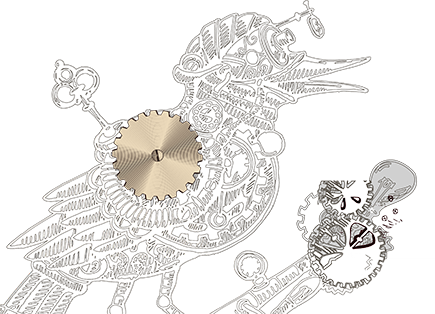
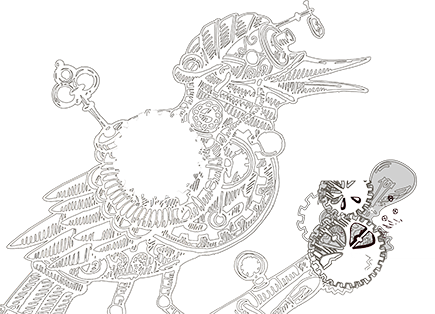
Add files via upload

Changed region(s): [[0.2391, 0.3439, 0.4782, 0.6592]]

diff --git a/project-1/index.html b/project-1/index.html
@@ -24,41 +24,55 @@
     			<div class="row header-background__top">
     				<div class="col-md-4 header-background__top-left"><img src="img/left-top.png" alt=""></div>
     				<div class="col-md-4 header-background__top-center"><img src="img/top-center.png" alt=""></div>
-    				<div class="col-md-4 header-background__top-right"><img src="img/top-right.png" alt=""></div>
+    				<div class="col-md-4 header-background__top-right">
+                        <img class="top-right" src="img/top-right.png" alt="">
+                        <img class="top-right-gear" src="img/top-right-gear.png" alt="">
+                    </div>
     			</div>
     			<div class="row header-background__bottom">
     				<div class="col-md-2 header-background__bottom-left"><img src="img/dor.png" alt=""></div>
-    				<div class="col-md-6 header-background__bottom-center"><img src="img/owl.png" alt=""></div>
-    				<div class="col-md-4 header-background__bottom-right"><img src="img/bottom-right.png" alt=""></div>
+    				<div class="col-md-6 header-background__bottom-center">
+                        <img class="owl" src="img/owl.png" alt="">
+                        <img class="owl-gear" src="img/owl-gear.png" alt="">
+                    </div>
+    				<div class="col-md-4 header-background__bottom-right">
+                        <img class="bottom-right" src="img/bottom-right.png" alt="">
+                        <img class="bottom-right-arrow" src="img/bottom-right-arrow.png" alt="">
+                    </div>
     			</div>
     		</div>
     		<div class="header-ui text-center">
     			<nav class="header-ui-nav">
     				<ul>
-    					<li class="bottom">
+    					<li style="position: relative;" class="bottom">
     						<span></span>
     						<img src="img/light.png" alt="">
-    						<a href="#">Галерея</a>
+                            <img style="opacity: 0; transition: all .3s; position: absolute; top: -10%; left: 26%; width: 90px;" class="light-lights-1" src="img/light-lights.png" alt="">
+    						<a class="menu-item-1" href="#">Галерея</a>
     					</li>
-    					<li class="center">
+    					<li style="position: relative;" class="center">
     						<span></span>
     						<img src="img/light.png" alt="">
-    						<a href="#">Витрина</a>
+                            <img style="opacity: 0; transition: all .3s; position: absolute; top: -10%; left: 26%; width: 90px;" class="light-lights-2" src="img/light-lights.png" alt="">
+    						<a class="menu-item-2" href="#">Витрина</a>
     					</li>
-    					<li class="top">
+    					<li style="position: relative;" class="top">
     						<span></span>
     						<img src="img/light.png" alt="">
-    						<a href="#">Меню</a>
+                            <img style="opacity: 0; transition: all .3s; position: absolute; top: -10%; left: 26%; width: 90px;" class="light-lights-3" src="img/light-lights.png" alt="">
+    						<a class="menu-item-3" href="#">Меню</a>
     					</li>
-    					<li class="center">
+    					<li style="position: relative;" class="center">
     						<span></span>
     						<img src="img/light.png" alt="">
-    						<a href="#">Контакты</a>
+                            <img style="opacity: 0; transition: all .3s; position: absolute; top: -10%; left: 28%; width: 90px;" class="light-lights-4" src="img/light-lights.png" alt="">
+    						<a class="menu-item-4" href="#">Контакты</a>
     					</li>
-    					<li class="bottom">
+    					<li style="position: relative;" class="bottom">
     						<span></span>
     						<img src="img/light.png" alt="">
-    						<a href="#">Франшиза</a>
+                            <img style="opacity: 0; transition: all .3s; position: absolute; top: -10%; left: 29%; width: 90px;" class="light-lights-5" src="img/light-lights.png" alt="">
+    						<a class="menu-item-5" href="#">Франшиза</a>
     					</li>
     				</ul>
     			</nav>
@@ -73,5 +87,41 @@
     <script src="https://ajax.googleapis.com/ajax/libs/jquery/1.12.4/jquery.min.js"></script>
     <!-- Include all compiled plugins (below), or include individual files as needed -->
     <script src="js/bootstrap.min.js"></script>
+    <script>
+        $('.menu-item-1').mouseenter(function(){
+            $('.light-lights-1').css({'opacity' : '.5'});
+        });
+        $('.menu-item-1').mouseleave(function(){
+            $('.light-lights-1').css({'opacity' : '0'});
+        });
+
+        $('.menu-item-2').mouseenter(function(){
+            $('.light-lights-2').css({'opacity' : '.5'});
+        });
+        $('.menu-item-2').mouseleave(function(){
+            $('.light-lights-2').css({'opacity' : '0'});
+        });
+
+        $('.menu-item-3').mouseenter(function(){
+            $('.light-lights-3').css({'opacity' : '.5'});
+        });
+        $('.menu-item-3').mouseleave(function(){
+            $('.light-lights-3').css({'opacity' : '0'});
+        });
+
+        $('.menu-item-4').mouseenter(function(){
+            $('.light-lights-4').css({'opacity' : '.5'});
+        });
+        $('.menu-item-4').mouseleave(function(){
+            $('.light-lights-4').css({'opacity' : '0'});
+        });
+
+        $('.menu-item-5').mouseenter(function(){
+            $('.light-lights-5').css({'opacity' : '.5'});
+        });
+        $('.menu-item-5').mouseleave(function(){
+            $('.light-lights-5').css({'opacity' : '0'});
+        });
+    </script>
   </body>
 </html>

diff --git a/project-1/css/style.css b/project-1/css/style.css
@@ -1,1 +1,1 @@
-img{display:inline-block}.header{width:100%;position:relative}.header-background{width:1140px;margin-top:20px;padding-top:5px;background-color:#eee;position:absolute}.header-background__top-left img{width:110%}.header-background__top-center img{display:block;margin:0 auto;width:25%}.header-background__top-right img{width:90%}.header-background__bottom{padding-top:300px}.header-background__bottom-left img{margin-top:50px;width:105%}.header-background__bottom-center img{margin-left:50px;margin-top:120px;width:60%}.header-background__bottom-right img{display:block;margin:0 auto;margin-top:100px;width:80%}.header-ui{position:relative}.header-ui-nav{overflow-x:hidden}.header-ui-nav ul{width:100%;padding:0}.header-ui-nav ul li{padding:0 40px;display:inline-block;margin:0 auto}.header-ui-nav ul li.bottom{margin-top:200px}.header-ui-nav ul li.center{-webkit-transform:translateY(-25px);transform:translateY(-25px)}.header-ui-nav ul li.top{-webkit-transform:translateY(-33px);transform:translateY(-33px)}.header-ui-nav ul li a{padding:10px 20px;border-radius:30px;display:block;margin-top:15px;background-color:#888;text-decoration:none;color:#fff;font-weight:800;text-transform:uppercase;-webkit-transition:all .3s;transition:all .3s}.header-ui-nav ul li a:hover{background-color:#ebd9ba;color:#555}.header-ui-nav ul li img{display:block;margin:0 auto;width:30px}.header-logo{margin-top:50px}.header-logo img{width:60%}
+img{display:inline-block}.header{width:100%;position:relative}.header-background{width:1140px;margin-top:20px;padding-top:5px;background-color:#eee;position:absolute}.header-background__top-left img{width:110%}.header-background__top-center img{display:block;margin:0 auto;width:25%}.header-background__bottom{padding-top:300px}.header-background__bottom-left img{margin-top:50px;width:105%}.header-background__bottom-center{position:relative}.header-background__bottom-right{position:relative}.header-ui{position:relative}.header-ui-nav ul{width:100%;padding:0}.header-ui-nav ul li{padding:0 40px;display:inline-block;margin:0 auto}.header-ui-nav ul li span{position:absolute;display:block;margin:0 auto;width:2px;height:500px;background:#999;bottom:100%;right:49%}.header-ui-nav ul li.bottom{margin-top:200px}.header-ui-nav ul li.center{-webkit-transform:translateY(-25px);transform:translateY(-25px)}.header-ui-nav ul li.top{-webkit-transform:translateY(-33px);transform:translateY(-33px)}.header-ui-nav ul li a{padding:10px 20px;border-radius:30px;display:block;margin-top:15px;background-color:#888;text-decoration:none;color:#fff;font-weight:800;text-transform:uppercase;-webkit-transition:all .3s;transition:all .3s}.header-ui-nav ul li a:hover{background-color:#ebd9ba;color:#555}.header-ui-nav ul li a:hover .light-lights{opacity:.5}.header-ui-nav ul li img{display:block;margin:0 auto;width:30px}.header-logo{margin-top:50px}.header-logo img{width:60%}.top-right{width:90%}.top-right-gear{position:absolute;right:28%;top:40%;width:100px;-webkit-animation-name:rotate;animation-name:rotate;-webkit-animation-duration:4s;animation-duration:4s;-webkit-animation-timing-function:linear;animation-timing-function:linear;-webkit-animation-iteration-count:infinite;animation-iteration-count:infinite}.owl{margin-left:50px;margin-top:120px;width:60%}.owl-gear{position:absolute;width:17%;top:53%;left:25%;-webkit-animation-name:rotate;animation-name:rotate;-webkit-animation-duration:4s;animation-duration:4s;-webkit-animation-timing-function:linear;animation-timing-function:linear;-webkit-animation-iteration-count:infinite;animation-iteration-count:infinite}.bottom-right{display:block;margin:0 auto;margin-top:100px;width:80%}.bottom-right-arrow{position:absolute;width:35px;top:34%;right:44%;-webkit-animation-name:rotate-arrow;animation-name:rotate-arrow;-webkit-animation-duration:4s;animation-duration:4s;-webkit-animation-iteration-count:infinite;animation-iteration-count:infinite}@-webkit-keyframes rotate{from{-webkit-transform:rotate(0deg);transform:rotate(0deg)}50%{-webkit-transform:rotate(180deg);transform:rotate(180deg)}to{-webkit-transform:rotate(360deg);transform:rotate(360deg)}}@keyframes rotate{from{-webkit-transform:rotate(0deg);transform:rotate(0deg)}50%{-webkit-transform:rotate(180deg);transform:rotate(180deg)}to{-webkit-transform:rotate(360deg);transform:rotate(360deg)}}@-webkit-keyframes rotate-arrow{from{-webkit-transform:rotate(0deg);transform:rotate(0deg)}25%{-webkit-transform:rotate(120deg);transform:rotate(120deg)}60%{-webkit-transform:rotate(80deg);transform:rotate(80deg)}80%{-webkit-transform:rotate(150deg);transform:rotate(150deg)}to{-webkit-transform:rotate(0deg);transform:rotate(0deg)}}@keyframes rotate-arrow{from{-webkit-transform:rotate(0deg);transform:rotate(0deg)}25%{-webkit-transform:rotate(120deg);transform:rotate(120deg)}60%{-webkit-transform:rotate(80deg);transform:rotate(80deg)}80%{-webkit-transform:rotate(150deg);transform:rotate(150deg)}to{-webkit-transform:rotate(0deg);transform:rotate(0deg)}}

diff --git a/project-1/less/style.less b/project-1/less/style.less
@@ -25,7 +25,7 @@ img {
 		}
 		&__top-right {
 			img {
-				width: 90%;
+				// width: 90%;
 			}
 		}
 		&__bottom {
@@ -37,18 +37,15 @@ img {
 				}
 			}
 			&-center {
+				position: relative;
 				img {
-					margin-left: 50px;
-					margin-top: 120px;
-					width: 60%;
+					
 				}
 			}
 			&-right {
+				position: relative;
 				img {
-					display: block;
-					margin: 0 auto;
-					margin-top: 100px;
-					width: 80%;
+					
 				}
 			}
 		}
@@ -56,15 +53,25 @@ img {
 	&-ui {
 		position: relative;
 		&-nav {
-			overflow-x: hidden;
+			// overflow-x: hidden;
 			ul {
+				// padding-top: 100px;
 				width: 100%;
 				padding: 0;
 				li {
 					padding: 0 40px;
-					// margin: 0 85px;
 					display: inline-block;
 					margin: 0 auto;
+					span {
+						position: absolute;
+						display: block;
+						margin: 0 auto;
+						width: 2px;
+						height: 500px;
+						background: #999;
+						bottom: 100%;
+						right: 49%;
+					}
 					&.bottom {
 						margin-top: 200px;
 					}
@@ -88,12 +95,16 @@ img {
 						&:hover {
 							background-color: #ebd9ba;
 							color: #555;
+							.light-lights {
+								opacity: .5;
+							}
 						}
 					}
 					img {
 						display: block;
 						margin: 0 auto;
 						width: 30px;
+
 					}
 				}
 			}
@@ -104,5 +115,77 @@ img {
 		img {
 			width: 60%;
 		}
+	}
+}
+.top-right {
+	width: 90%;
+}
+.top-right-gear {
+	position: absolute;
+	right: 28%;
+	top: 40%;
+	width: 100px;
+	animation-name: rotate;
+	animation-duration: 4s;
+	animation-timing-function: linear;
+	animation-iteration-count: infinite;
+}
+.owl {
+	margin-left: 50px;
+	margin-top: 120px;
+	width: 60%;
+}
+.owl-gear {
+	position: absolute;
+	width: 17%;
+	top: 53%;
+	left: 25%;
+	animation-name: rotate;
+	animation-duration: 4s;
+	animation-timing-function: linear;
+	animation-iteration-count: infinite;
+}
+.bottom-right {
+	display: block;
+	margin: 0 auto;
+	margin-top: 100px;
+	width: 80%;
+}
+.bottom-right-arrow {
+	position: absolute;
+	width: 35px;
+	top: 34%;
+	right: 44%;
+	animation-name: rotate-arrow;
+	animation-duration: 4s;
+	// animation-timing-function: linear;
+	animation-iteration-count: infinite;
+}
+@keyframes rotate {
+	from {
+		transform: rotate(0deg);
+	}
+	50% {
+		transform: rotate(180deg);
+	}
+	to {
+		transform: rotate(360deg);
+	}
+}
+@keyframes rotate-arrow {
+	from {
+		transform: rotate(0deg);
+	}
+	25% {
+		transform: rotate(120deg);
+	}
+	60% {
+		transform: rotate(80deg);
+	}
+	80% {
+		transform: rotate(150deg);
+	}
+	to {
+		transform: rotate(0deg);
 	}
 }
